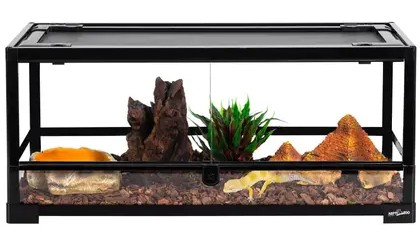
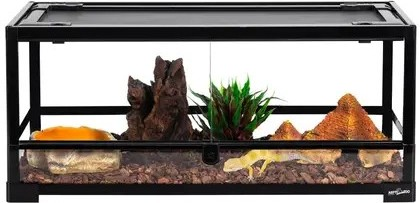
imagens do utilizador

diff --git a/js/home.js b/js/home.js
@@ -11,15 +11,38 @@ function renderHero() {
 
   let imagem = t.imagemTerrario;
 
-  if (imagem && imagem.startsWith("uploads/")) {
-    imagem = `${SERVER_BASE}/${imagem}`;
+  if (imagem) {
+
+    // Se a API devolver "uploads/nome.jpg"
+    if (imagem.startsWith("uploads/")) {
+      imagem = `${SERVER_BASE}/${imagem.substring("uploads/".length)}`;
+    }
+
+    // Se a API devolver apenas "nome.jpg"
+    else if (!imagem.startsWith("http")) {
+      imagem = `${SERVER_BASE}/${imagem}`;
+    }
+
+  } else {
+
+    // Imagem predefinida local
+    imagem = "imagens/Terrarios/terrarioPequeno.jpg";
+
   }
 
-  if (!imagem) {
-    imagem = "imagens/terrario-default.jpg";
-  }
+  const img = document.getElementById("terrario-img");
 
-  document.getElementById("terrario-img").src = imagem;
+  if (img) {
+    img.src = imagem;
+
+    img.onerror = function () {
+      console.error("Não foi possível carregar a imagem:", imagem);
+
+      // Fallback local
+      this.onerror = null;
+      this.src = "imagens/Terrarios/terrarioPequeno.jpg";
+    };
+  }
 
   document.getElementById("terrario-name").textContent =
     t.nomeTerrario;

diff --git a/js/picker.js b/js/picker.js
@@ -4,6 +4,7 @@
    ════════════════════════════════════════════ */
 
 function renderPickerList() {
+
   const list = document.getElementById('picker-list');
 
   if (!list) return;
@@ -14,12 +15,28 @@ function renderPickerList() {
 
     // Se não existir imagem
     if (!imagem) {
-      imagem = "imagens/terrario-default.jpg";
+      imagem = "terrarioGrande.jpg";
     }
 
     // Imagens enviadas pelo utilizador
     if (imagem.startsWith("uploads/")) {
-      imagem = `http://192.168.68.73:8080/${imagem}`;
+
+      // Remove "uploads/" para não ficar:
+      // /uploads/uploads/imagem.jpg
+      const nomeImagem = imagem.replace(/^uploads\//, "");
+
+      imagem = `${SERVER_BASE}/${nomeImagem}`;
+    }
+
+    // Se vier apenas o nome do ficheiro
+    else if (
+      imagem &&
+      !imagem.startsWith("http://") &&
+      !imagem.startsWith("https://") &&
+      !imagem.startsWith("imagens/")
+    ) {
+
+      imagem = `${SERVER_BASE}/${imagem}`;
     }
 
     return `

diff --git a/js/config.js b/js/config.js
@@ -1,3 +1,3 @@
-const API_BASE = "http://192.168.68.73:8080/api";
+const API_BASE = "http://192.168.68.72:8080/api";
 
-const SERVER_BASE = "http://192.168.68.73:8080/uploads";
+const SERVER_BASE = "http://192.168.68.72:8080/uploads";